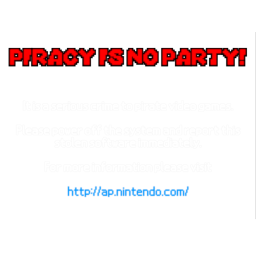
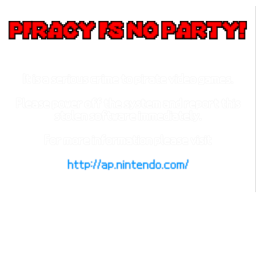
temporary commit to show current progress

diff --git a/source/main.cpp b/source/main.cpp
@@ -12,17 +12,29 @@ int main(void)
 {
 	videoSetMode(MODE_5_2D);
 	videoSetModeSub(MODE_5_2D);
+	// vramSetBankB(VRAM_B_MAIN_BG);
+  	// vramSetBankC(VRAM_C_SUB_BG);
     // vramSetBankA(VRAM_A_MAIN_BG_0x06000000);
 
-	int hudsonBg = bgInit(2, BgType_Bmp8, BgSize_B8_512x256, 0,0);
+	// enable extended palettes
+	bgExtPaletteEnable();
+	bgExtPaletteEnableSub();
+
+	int hudsonBg = bgInit(3, BgType_Bmp8, BgSize_B8_512x256, 0,0);
 	bgSetControlBits(hudsonBg, BG_WRAP_ON); // scrolling background
-	// int piracyBg = bgInit(3, BgType_Bmp8, BgSize_B8_256x256, 0, 0);
+	int piracyBg = bgInit(0, BgType_Text8bpp, BgSize_T_256x256, 1, 1);
 	int jailBg = bgInitSub(2, BgType_Bmp8, BgSize_B8_256x256, 0, 0);
 
 	dmaCopy(hudsonBitmap, bgGetGfxPtr(hudsonBg), 512*256);
 	dmaCopy(hudsonPal, BG_PALETTE, 256*2);
-	// dmaCopy(nopartyBitmap, bgGetGfxPtr(piracyBg), 256*256);
-	// dmaCopy(nopartyPal, bgGetPalPtr(piracyBg), 256*2);
+	dmaCopy(nopartyTiles, bgGetGfxPtr(piracyBg), nopartyTilesLen);
+	dmaCopy(nopartyMap, bgGetMapPtr(piracyBg), nopartyMapLen);
+	// you can only access extended palettes in LCD mode
+  	vramSetBankE(VRAM_E_LCD); // for main engine
+	dmaCopy(nopartyPal,  &VRAM_E_EXT_PALETTE[0][0], nopartyPalLen);  // bg 0, slot 0
+	// map vram banks to extended palettes
+	// http://mtheall.com/banks.html#A=MBG0&C=MBG2&E=BGEPAL&H=SBGEPAL
+	vramSetBankE(VRAM_E_BG_EXT_PALETTE);     // for main engine
 	dmaCopy(jailBitmap, bgGetGfxPtr(jailBg), 256*256);
 	dmaCopy(jailPal, BG_PALETTE_SUB, 256*2);
 
